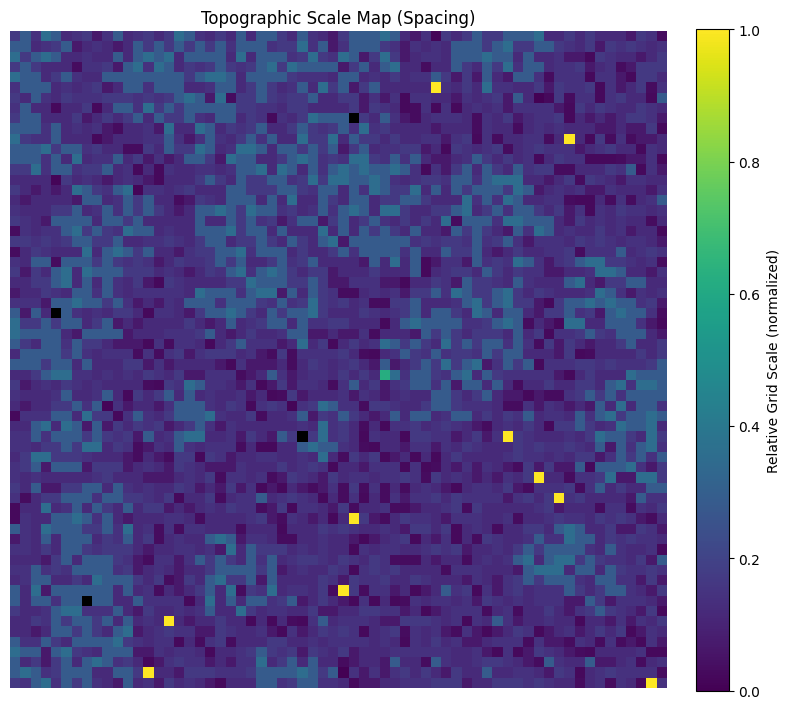
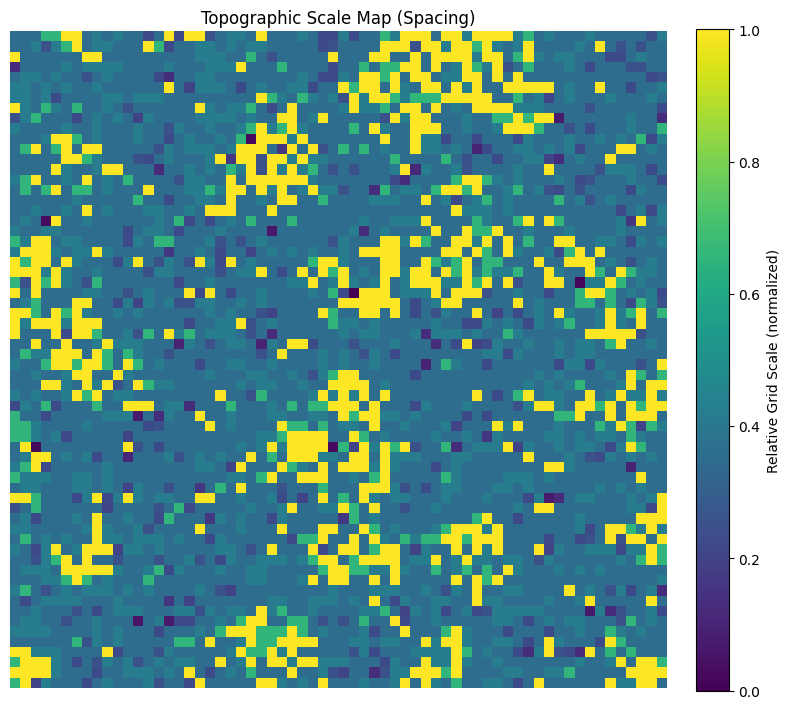
Ratinabox visuals

diff --git a/analyze.py b/analyze.py
@@ -633,11 +633,11 @@ def visualize_grid_scores(model_path, n_examples=8, n_cells=None, res=32, gen_bo
     
     return scores, ratemaps
 
-def get_spectral_phase_colors(rate_maps, grid_scores, mask_threshold=0.1):
+def get_spectral_phase_colors(rate_maps, grid_scores, mask_threshold=0.1, gscore_threshold=0.0):
     colors = []
     
     for rmap, gscore in zip(rate_maps, grid_scores):
-        if np.max(rmap) < mask_threshold:
+        if np.max(rmap) < mask_threshold or gscore < gscore_threshold:
             colors.append([0, 0, 0])
             continue
 
@@ -666,13 +666,13 @@ def get_spectral_phase_colors(rate_maps, grid_scores, mask_threshold=0.1):
         
     return np.array(colors)
 
-def get_spectral_scale_colors(rate_maps, grid_scores, mask_threshold=0.1):
+def get_spectral_scale_colors(rate_maps, grid_scores, mask_threshold=0.1, gscore_threshold=0.0):
     scales = []
     valid_indices = []
 
     # Calculate scales/frequencies
     for i, (rmap, gscore) in enumerate(zip(rate_maps, grid_scores)):
-        if np.max(rmap) < mask_threshold:
+        if np.max(rmap) < mask_threshold or gscore < gscore_threshold:
             scales.append(None) 
             continue
 
@@ -717,11 +717,11 @@ def get_spectral_scale_colors(rate_maps, grid_scores, mask_threshold=0.1):
 
     return colors
 
-def get_spectral_orientation_colors(rate_maps, grid_scores, mask_threshold=0.1):
+def get_spectral_orientation_colors(rate_maps, grid_scores, mask_threshold=0.1, gscore_threshold=0.0):
     colors = []
 
     for rmap, gscore in zip(rate_maps, grid_scores):
-        if np.max(rmap) < mask_threshold:
+        if np.max(rmap) < mask_threshold or gscore < gscore_threshold:
             colors.append([0, 0, 0])
             continue
 
@@ -864,13 +864,13 @@ def create_grid_score_histogram_figure(grid_scores, threshold=0.3):
     plt.tight_layout()
     return fig
 
-def create_topographic_phase_map_figure(ratemaps, grid_scores, mask_threshold=0.0):
+def create_topographic_phase_map_figure(ratemaps, grid_scores, mask_threshold=0.0, gscore_threshold=0.0):
     """
     Create a topographic phase map visualization
     
     Returns matplotlib figure (should be closed after use)
     """
-    colors = get_spectral_phase_colors(ratemaps, grid_scores, mask_threshold=mask_threshold)
+    colors = get_spectral_phase_colors(ratemaps, grid_scores, mask_threshold=mask_threshold, gscore_threshold=gscore_threshold)
     
     side = int(np.sqrt(len(colors)))
     topo_map = colors.reshape(side, side, 3)
@@ -890,12 +890,12 @@ def create_topographic_phase_map_figure(ratemaps, grid_scores, mask_threshold=0.
     plt.tight_layout()
     return fig
 
-def create_topographic_scale_map_figure(ratemaps, grid_scores, mask_threshold=0.0):
+def create_topographic_scale_map_figure(ratemaps, grid_scores, mask_threshold=0.0, gscore_threshold=0.0):
     """
     Visualizes the grid spacing (scale) topography
     Returns matplotlib figure (should be closed after use)
     """
-    colors = get_spectral_scale_colors(ratemaps, grid_scores, mask_threshold=mask_threshold)
+    colors = get_spectral_scale_colors(ratemaps, grid_scores, mask_threshold=mask_threshold, gscore_threshold=gscore_threshold)
 
     side = int(np.sqrt(len(colors)))
     topo_map = colors.reshape(side, side, 3)
@@ -915,12 +915,12 @@ def create_topographic_scale_map_figure(ratemaps, grid_scores, mask_threshold=0.
     plt.tight_layout()
     return fig
 
-def create_topographic_orientation_map_figure(ratemaps, grid_scores, mask_threshold=0.0):
+def create_topographic_orientation_map_figure(ratemaps, grid_scores, mask_threshold=0.0, gscore_threshold=0.0):
     """
     Visualizes the grid orientation topography
     Returns matplotlib figure (should be closed after use)
     """
-    colors = get_spectral_orientation_colors(ratemaps, grid_scores, mask_threshold=mask_threshold)
+    colors = get_spectral_orientation_colors(ratemaps, grid_scores, mask_threshold=mask_threshold, gscore_threshold=gscore_threshold)
 
     side = int(np.sqrt(len(colors)))
     topo_map = colors.reshape(side, side, 3)
